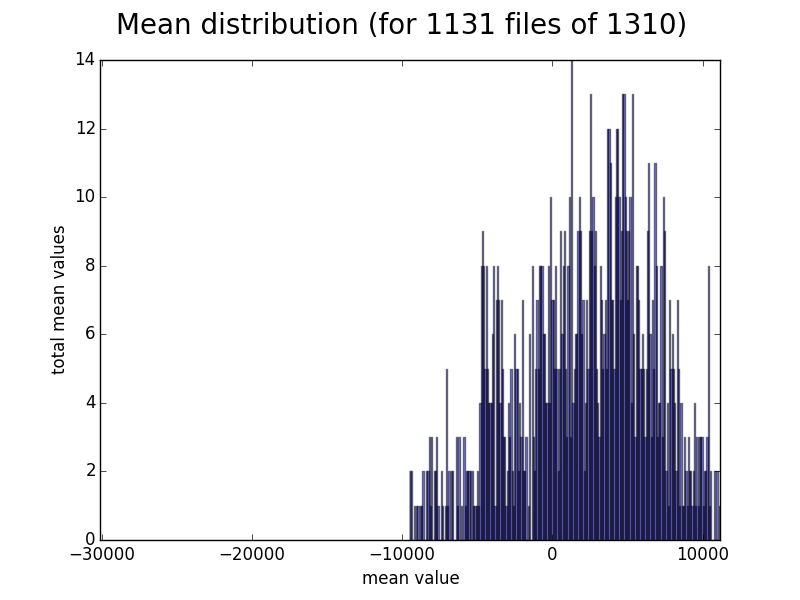
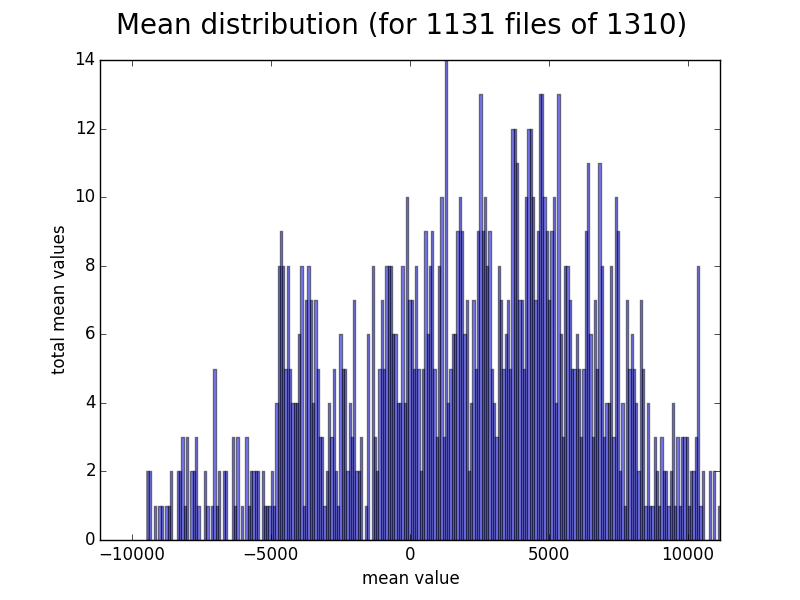
some centering

Changed region(s): [[0.0938, 0.09, 0.9062, 0.96]]

diff --git a/generate_distributions.cpp b/generate_distributions.cpp
@@ -28,7 +28,7 @@ double biosemi_microvoltage_factor = 8192;
 //sampling rate
 double sampling_rate = 2048;
 
-void string_split_histogram(std::string s, char delimiter, std::map<double, int>& h_map){
+void string_split_histogram(std::string s, char delimiter, std::map<double, unsigned long int>& h_map){
     size_t start=0;
     int count = 0;
     size_t end=s.find_first_of(delimiter);   
@@ -219,8 +219,8 @@ std::vector<double> normalize_data(std::vector<double>& v, double& _mean, double
     return rdata;
 }
 
-std::map<double, int> update_histogram(std::map<double, int>& h_map, double& _mean, double& _stdv){
-    std::map<double, int> o_map;
+std::map<double, unsigned long int> update_histogram(std::map<double, unsigned long int>& h_map, double& _mean, double& _stdv){
+    std::map<double, unsigned long int> o_map;
     for(auto iter: h_map){
         double normed_val = ((iter.first - _mean)/_stdv);
         if(o_map.count(normed_val) > 0)
@@ -234,7 +234,7 @@ std::map<double, int> update_histogram(std::map<double, int>& h_map, double& _me
 std::map<double, int> mine_file(std::string& f_name){
     std::vector<unsigned long int> new_line_indexes;
     std::vector<std::string> data_vector_string;
-    std::map<double, int> raw_nfb_histogram_map;
+    std::map<double, unsigned long int> raw_nfb_histogram_map;
 
     char *filename = (char *)f_name.c_str();
     struct stat stbuff;

diff --git a/plot_overall_distribution.py b/plot_overall_distribution.py
@@ -24,10 +24,12 @@ for key,value in data.iteritems():
 	y.append(value)
 
 print 'done parsing file'
+max_x = max(list(x))
 
 fig = plt.figure()
 fig.suptitle('raw eeg voltage distribution normalized', fontsize=20)
 plt.scatter(x, y)
+plt.xlim([-max_x,max_x])
 plt.xlabel("Normed values")
 plt.ylabel("Value occurance")
 fig.savefig('overall_distrubution.png')

diff --git a/plot_moments_distribution.py b/plot_moments_distribution.py
@@ -42,6 +42,6 @@ for key,value in moments_dict.iteritems():
 	open(savefig_path+ str(key) + '_overall_distrubution.txt','w+').write(out_hist)
 	plt.xlabel("%s value" % (key))
 	plt.ylabel("total %s values" % (key))
-	plt.xlim([real_min_b,max_b])
+	plt.xlim([-max_b,max_b])
 	fig.savefig(savefig_path+ str(key) + '_overall_distrubution.png')
 	plt.close()

diff --git a/ideas.md b/ideas.md
@@ -11,3 +11,12 @@
 			-skewness
 			-kurtosis
 
+- determine range of electropotential to help define hamiltonian (microcanoical ensamble) for along the scalp
+
+
+# Notes #
+- flat gausssian for mean distrubtion of voltages
+- shallow quad modal stdv ""
+- "" tri modal for skew ""
+- approx dirac delta for kurt ~1, <3  (some guassian)
+
